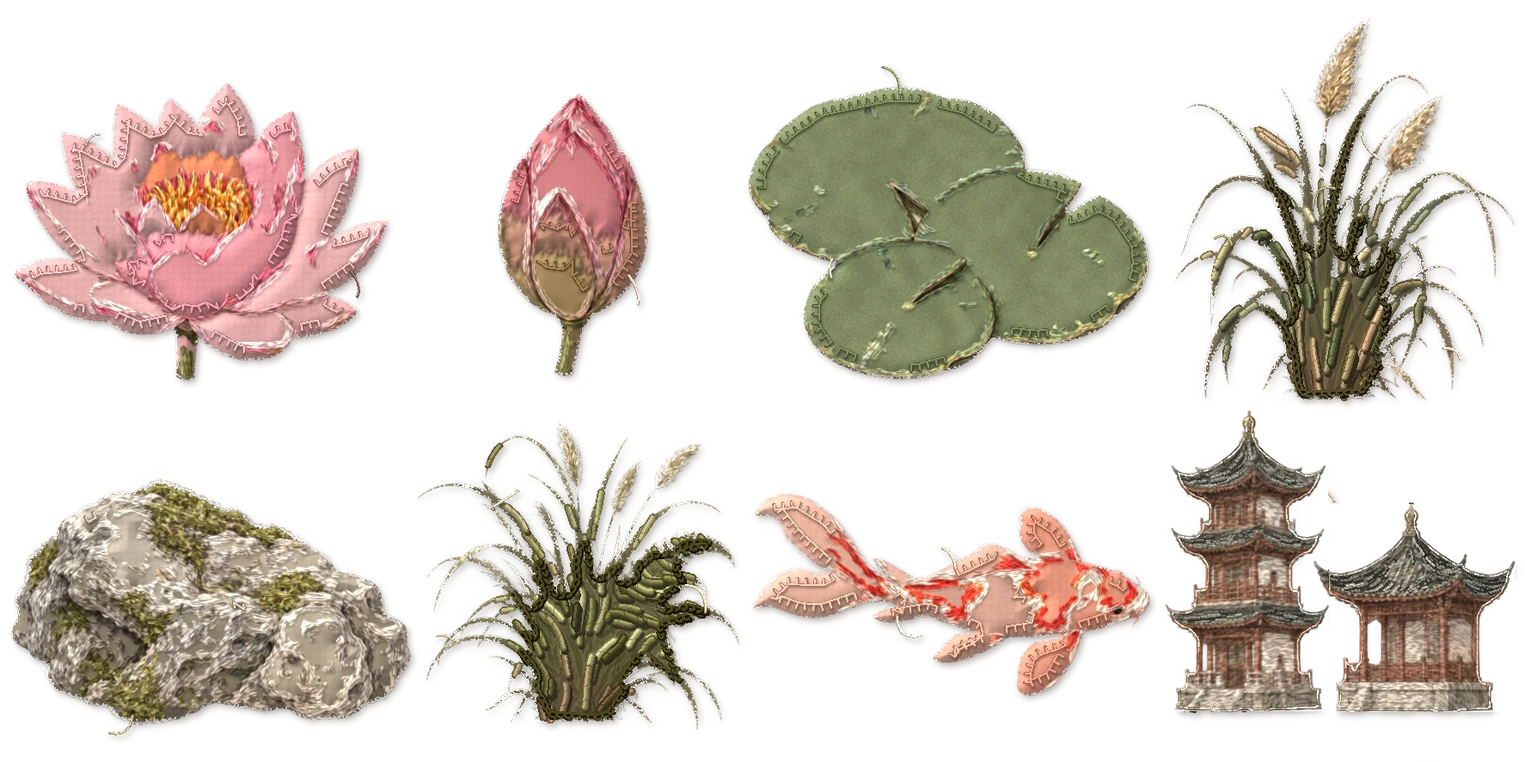
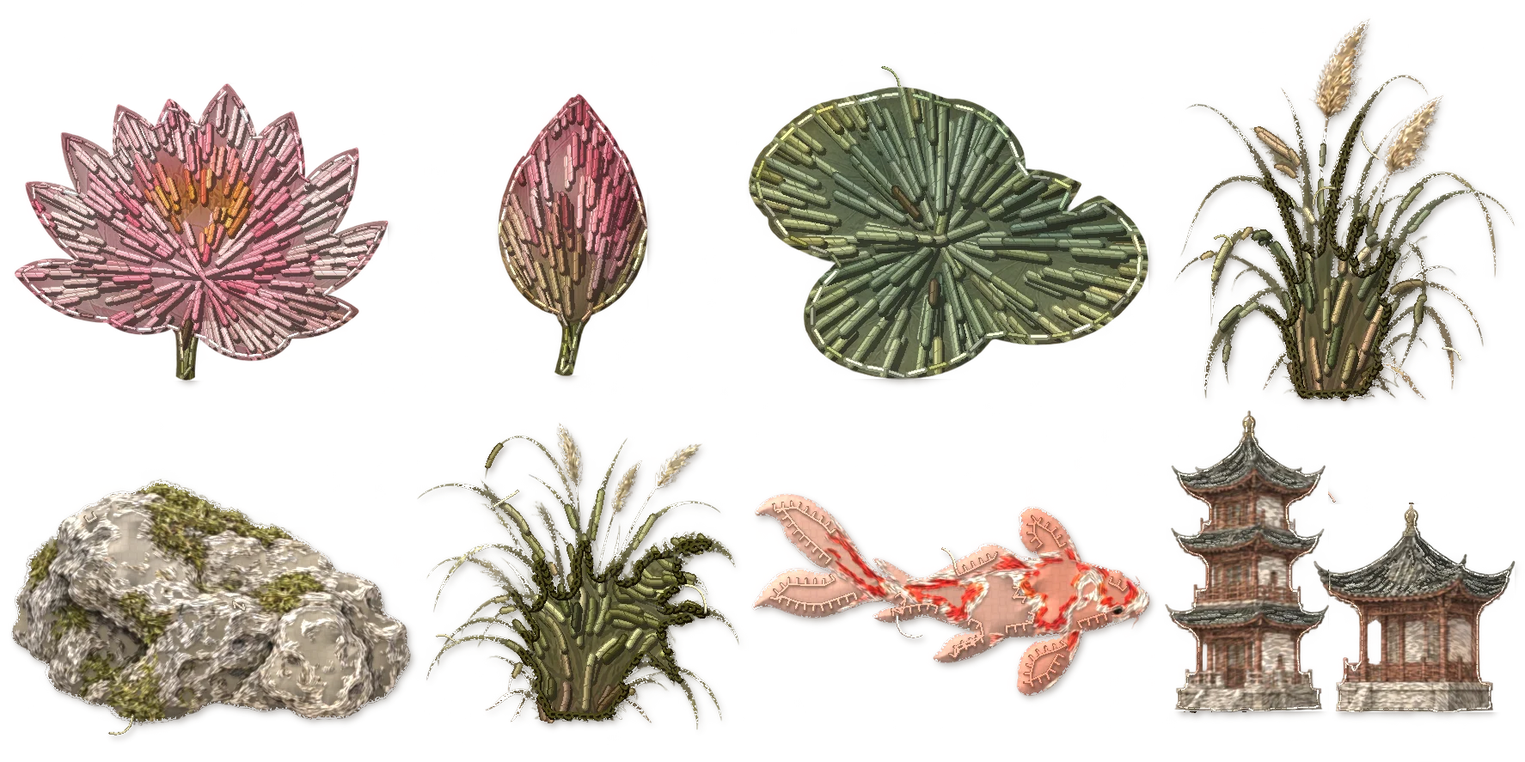
2D water: dark cloth swells with mother-of-pearl crests; embroidered lotus
- The water is dark cotton appliqué: rolling swells in muted slate, indigo
  and teal cloth, each over the one behind with its own shadow, a second
  cloth in its hollow and a running stitch along its top. Night colours come
  from CSS variables, so there is no dark veil over the shell.
- Mother-of-pearl is only the highlight: white shell strips along each crest
  and into its curl, set in a dark seat, with a slow pearly iridescence
  (pink, green, lavender) and a glint that comes and goes along the edge.
- The lotus flowers, buds and leaves are embroidered in satin stitch that
  spreads from the heart of each flower or leaf (fabricize EMB_REGIONS takes
  that point), and are shown a little larger in the cloth world.

Claude-Session: https://claude.ai/code/session_014GcVETBqDYWRJNBAnWSkWH

Changed region(s): [[0.4961, 0.1218, 0.7751, 0.5175], [0.0, 0.1218, 0.279, 0.487], [0.31, 0.1218, 0.434, 0.487]]

diff --git a/assets/js/art.js b/assets/js/art.js
@@ -981,7 +981,7 @@
   }
 
   // The cloth world's shared definitions: twisted thread for sewn lines, satin-stitched letters,
-  // and the mother-of-pearl waves inlaid in the water.
+  // and the cloth water with its mother-of-pearl crests.
   function clothDefs() {
     return '<pattern id="gTwist" width="2.4" height="2.4" patternUnits="userSpaceOnUse" patternTransform="rotate(42)"><rect width="2.4" height="2.4" style="fill:var(--thread)"/><rect width=".8" height="2.4" style="fill:var(--thread-shade)"/><rect x="1.4" width=".35" height="2.4" style="fill:var(--thread-light);opacity:.45"/></pattern>' +
       '<pattern id="gSatinLetters" width="1.5" height="1.5" patternUnits="userSpaceOnUse" patternTransform="rotate(-58)"><rect width="1.5" height="1.5" fill="#f2e3c1"/><rect width=".42" height="1.5" fill="#c4a46b"/><rect x=".9" width=".2" height="1.5" fill="#fff8e6" opacity=".7"/></pattern>' +
@@ -989,31 +989,35 @@
       seaDefs();
   }
 
-  // The water is one piece of mother-of-pearl inlay: rolling waves laid one over another across the
-  // whole pond, each wave built from long strips of shell (pearl white set against shell blues, the
-  // colours alone parting them) in lacquer, with a curling crest and a spray of pearls. A few wave
-  // shapes are made once here and placed many times at different sizes.
-  var SEA = {
-    pearl: [70, 28, ["#fdfbf6", "#e1ebf3", "#f5e8f0", "#d9ecee", "#fffaf1", "#e0e3f6"]],
-    mist: [90, -18, ["#d3e3ef", "#b1cbe2", "#e3e8f7", "#bfdce6", "#f0f5f7"]],
-    shell: [60, 52, ["#86afd3", "#5f8fc1", "#a0aade", "#6aa8c2", "#bcd5ea"]],
-    cobalt: [80, -38, ["#3f6fa2", "#2e5a8f", "#5876ba", "#2f7593", "#709fca"]],
-    deep: [100, 66, ["#1e3b63", "#285383", "#35488c", "#205c75", "#3f6d9f"]]
+  // The water is dark cloth, appliquéd: rolling swells cut from muted slate, indigo and teal cotton,
+  // each laid over the one behind with its own shadow and a running stitch along its top, a second
+  // cloth in its hollow. Mother-of-pearl is set only where the light catches, as the highlight: thin
+  // strips of white shell along each crest and into its curl, and a spray of pearls. The shell keeps
+  // its lustre: pearly white turning pink, green and blue along its length, a bright glint on its top
+  // edge, and a dark seat it is set into. A few wave shapes are made once and placed many times.
+  var NACRE = {
+    pearl: [64, 24, ["#fffefa", "#fbeef4", "#f4d7e6", "#fffaf2", "#ffffff", "#daf1ea", "#f6fbf9", "#dde3fb", "#fff6e6", "#ffffff"]],
+    silver: [76, -32, ["#f7f9fb", "#e3edf5", "#fbf1f6", "#ffffff", "#d6efe9", "#eef0fc", "#ffffff"]],
+    abalone: [48, 62, ["#d6f2ec", "#b4cbf3", "#efd8f3", "#c9f1df", "#f8e7cf", "#dcf5f2"]]
   };
+  var SEA_CLOTH = ["far", "mid", "near", "deep"];   // colours from the CSS (--sea-far ...), day and night
   function seaDefs() {
     var out = "";
-    Object.keys(SEA).forEach(function (k) {
-      var g = SEA[k], a = g[1] * Math.PI / 180;
+    Object.keys(NACRE).forEach(function (k) {
+      var g = NACRE[k], a = g[1] * Math.PI / 180;
       out += '<linearGradient id="gSea-' + k + '" gradientUnits="userSpaceOnUse" spreadMethod="reflect" x1="0" y1="0" x2="' + f1(Math.cos(a) * g[0]) + '" y2="' + f1(Math.sin(a) * g[0]) + '">' +
         g[2].map(function (c, i) { return '<stop offset="' + (i / (g[2].length - 1)).toFixed(2) + '" stop-color="' + c + '"/>'; }).join("") + '</linearGradient>';
     });
+    // the glint on the shell comes and goes along its length
+    out += '<linearGradient id="gSea-glint" gradientUnits="userSpaceOnUse" spreadMethod="reflect" x1="0" y1="0" x2="58" y2="9"><stop offset="0" stop-color="#fff" stop-opacity="0"/><stop offset=".35" stop-color="#fff" stop-opacity=".95"/><stop offset=".5" stop-color="#fff" stop-opacity="0"/><stop offset=".8" stop-color="#fff" stop-opacity=".6"/><stop offset="1" stop-color="#fff" stop-opacity="0"/></linearGradient>';
+    // plain-woven cotton in each cloth colour
+    SEA_CLOTH.forEach(function (k) {
+      out += '<pattern id="gSeaCloth-' + k + '" width="3" height="3" patternUnits="userSpaceOnUse"><rect width="3" height="3" style="fill:var(--sea-' + k + ')"/><path d="M0 .75h3" stroke="#fff" stroke-opacity=".08" stroke-width=".7"/><path d="M2.25 0v3" stroke="#000" stroke-opacity=".16" stroke-width=".7"/></pattern>';
+    });
     out += '<pattern id="gSeaThreads" width="16" height="3.4" patternUnits="userSpaceOnUse"><path class="sea-thread" d="M1 1.2h9M9 2.9h6"/></pattern>';
-    var r = rng(4417), front = ["pearl", "mist", "pearl", "shell", "mist", "cobalt", "pearl", "shell", "deep", "cobalt", "deep"];
-    out += seaWave("gSeaFront1", 250, 100, 3.4, front, "deep", r) + seaWave("gSeaFront2", 300, 92, 3.4, front, "cobalt", r) +
-      seaWave("gSeaFront3", 220, 108, 3.2, ["pearl", "shell", "pearl", "mist", "cobalt", "pearl", "deep", "shell", "cobalt", "deep", "deep"], "deep", r) +
-      seaWave("gSeaBack1", 200, 64, 2.5, ["pearl", "mist", "pearl", "shell", "mist", "shell", "cobalt"], "shell", r) +
-      seaWave("gSeaBack2", 240, 58, 2.5, ["mist", "pearl", "shell", "pearl", "shell", "mist", "cobalt"], "cobalt", r);
-    return out;
+    var r = rng(4417);
+    return out + seaWave("gSeaFront1", 250, 100, "near", "deep", r) + seaWave("gSeaFront2", 300, 92, "deep", "near", r) + seaWave("gSeaFront3", 220, 108, "near", "mid", r) +
+      seaWave("gSeaBack1", 200, 64, "mid", "far", r) + seaWave("gSeaBack2", 240, 58, "far", "mid", r);
   }
   // A dense line through control points (Catmull-Rom).
   function spline(pts, step) {
@@ -1046,37 +1050,37 @@
     for (var i = 1; i < pts.length - 1; i++) d += "Q" + f1(pts[i][0]) + " " + f1(pts[i][1]) + " " + f1((pts[i][0] + pts[i + 1][0]) / 2) + " " + f1((pts[i][1] + pts[i + 1][1]) / 2);
     return d + "L" + f1(pts[pts.length - 1][0]) + " " + f1(pts[pts.length - 1][1]);
   }
-  // One wave, standing on (0, 0) and rising to the right: the back of the wave is a fan of shell
-  // strips (the outer ones run on into the curl, the inner ones stop short), over a body of shell.
-  function seaWave(id, W, H, s, strips, body, r) {
+  function thin(pts, k) { return pts.filter(function (p, i) { return i % k === 0 || i === pts.length - 1; }); }
+  // One wave standing on (0, 0) and rising to the right: a swell of cloth with a second cloth in its
+  // hollow, and shell along its crest. The back of the wave runs along c; "inside" is to its right.
+  function seaWave(id, W, H, cloth, inner, r) {
     var c = spline([[-.3 * W, 8], [.12 * W, -.06 * H], [.44 * W, -.27 * H], [.72 * W, -.62 * H], [.89 * W, -.9 * H], [W, -H],
-      [1.1 * W, -.97 * H], [1.16 * W, -.85 * H], [1.14 * W, -.73 * H], [1.08 * W, -.71 * H], [1.06 * W, -.77 * H]], 3);
-    var gap = 1.2, pitch = s + gap, ends = [1, .96, .88, .79, .74, .69, .64, .6, .56, .52, .48], out = "";
-    var edge = offsetLine(c, -s / 2 - gap, 0, .8);
+      [1.1 * W, -.97 * H], [1.16 * W, -.85 * H], [1.14 * W, -.73 * H], [1.08 * W, -.71 * H], [1.06 * W, -.77 * H]], 3), out = "";
+    var edge = offsetLine(c, -1.6, 0, .8);
     var face = spline([edge[edge.length - 1], [1.03 * W, -.66 * H], [1.0 * W, -.42 * H], [1.05 * W, -.16 * H], [1.2 * W, 0], [1.3 * W, 12]], 4);
-    out += '<path class="sea-body" fill="url(#gSea-' + body + ')" d="' + smoothPath(edge.concat(face).filter(function (p, i) { return i % 2 === 0; })) + 'L' + f1(-.3 * W) + ' 12Z"/>';
-    // the falling face of the wave is inlaid too, in strips that run down from the crest; strips of
-    // one shell share a path, and the lacquer grooves under them share one, so a wave is a few shapes
-    function fan(line, list, offset, from, step, end) {
-      var groove = "", byShell = {};
-      list.forEach(function (pal, j) {
-        var d = smoothPath(offsetLine(line, offset(j), from(j), end(j)).filter(function (p, i) { return i % 3 === 0; }));
-        groove += d; byShell[pal] = (byShell[pal] || "") + d;
-      });
-      var w = s * step;
-      return '<path class="sea-groove" stroke-width="' + f1(w + gap * 1.1) + '" d="' + groove + '"/>' +
-        Object.keys(byShell).map(function (pal) { return '<path class="sea-strip" stroke="url(#gSea-' + pal + ')" stroke-width="' + f1(w) + '" d="' + byShell[pal] + '"/>'; }).join("");
-    }
-    out += fan(face, ["pearl", "shell", "cobalt", "mist", "deep", "cobalt"], function (j) { return gap + s / 2 + j * pitch; }, function (j) { return .08 + j * .07; }, 1, function () { return 1; });
-    out += fan(c, strips, function (j) { return j * pitch + j * j * s * .025; }, function (j) { return .015 + j * .028; }, 1.15, function (j) { return ends[j] || .5; });
+    var body = smoothPath(thin(edge.concat(face), 2)) + "L" + f1(-.3 * W) + " 12Z";
+    var hollowEdge = offsetLine(c, 15, .1, .6), he = hollowEdge[hollowEdge.length - 1];
+    var hollow = smoothPath(thin(hollowEdge.concat(spline([he, [he[0] + .06 * W, he[1] + .25 * H], [he[0] + .1 * W, -.05 * H], [he[0] + .22 * W, 12]], 4)), 2)) + "L" + f1(hollowEdge[0][0]) + " 12Z";
+    out += '<path class="sea-shadow" transform="translate(1.6 2.4)" d="' + body + '"/><path class="sea-cloth" fill="url(#gSeaCloth-' + cloth + ')" d="' + body + '"/>' +
+      '<path class="sea-shadow" transform="translate(1.1 1.7)" d="' + hollow + '"/><path class="sea-cloth" fill="url(#gSeaCloth-' + inner + ')" d="' + hollow + '"/>' +
+      '<path class="sea-stitch" d="' + smoothPath(thin(offsetLine(c, 3.4, .03, .4), 3)) + smoothPath(thin(offsetLine(c, 18.4, .14, .56), 3)) + '"/>';
+    // the shell: [nacre, offset inside the crest, from, to, width]
+    var glint = "";
+    [["pearl", 0, .4, 1, 3], ["silver", 4.3, .5, .94, 2.3], ["abalone", 7.9, .58, .86, 1.7], ["pearl", 11, .65, .8, 1.3]].forEach(function (n) {
+      var d = smoothPath(thin(offsetLine(c, n[1], n[2], n[3]), 3));
+      out += '<path class="sea-groove" stroke-width="' + f1(n[4] + 1.1) + '" transform="translate(.3 .6)" d="' + d + '"/><path class="sea-strip" stroke="url(#gSea-' + n[0] + ')" stroke-width="' + n[4] + '" d="' + d + '"/>';
+      glint += smoothPath(thin(offsetLine(c, n[1] - n[4] * .22, n[2] + .03, n[3] - .02), 3));
+    });
+    var fd = smoothPath(thin(offsetLine(face, 2.6, .04, .34), 3));
+    out += '<path class="sea-groove" stroke-width="2.6" transform="translate(.3 .6)" d="' + fd + '"/><path class="sea-strip" stroke="url(#gSea-silver)" stroke-width="1.5" d="' + fd + '"/>' +
+      '<path class="sea-glint" d="' + glint + '"/>';
     // spray: pearls thrown off the crest
     var spray = "";
     for (var p = 0; p < 7; p++) {
       var a = -.5 + r() * 2.1, rad = .1 * W + r() * .14 * W, pr = .9 + r() * 1.7, px = 1.05 * W + Math.cos(a) * rad * .8, py = -.88 * H - Math.sin(a) * rad * .45;
       spray += "M" + f1(px - pr) + " " + f1(py) + "a" + f1(pr) + " " + f1(pr) + " 0 1 0 " + f1(2 * pr) + " 0a" + f1(pr) + " " + f1(pr) + " 0 1 0 " + f1(-2 * pr) + " 0";
     }
-    out += '<path class="sea-spray" fill="url(#gSea-pearl)" d="' + spray + '"/>';
-    return '<g id="' + id + '">' + out + '</g>';
+    return '<g id="' + id + '">' + out + '<path class="sea-spray" fill="url(#gSea-pearl)" d="' + spray + '"/></g>';
   }
   function luodian(width, waterShape) {
     var r = rng(5150), back = "", mid = "", front = "";
@@ -1085,8 +1089,7 @@
     for (x = -100; x < width + 200; x += 330 + r() * 260) mid += place("gSeaFront" + (1 + Math.floor(r() * 3)), x, 786 + r() * 8, .62 + r() * .14, .6 + r() * .14);
     for (x = -60; x < width + 200; x += 210 + r() * 120) front += place("gSeaFront" + (1 + Math.floor(r() * 3)), x, 808 + r() * 6, .88 + r() * .26, .86 + r() * .2);
     return '<defs><clipPath id="gPondClip"><path d="' + waterShape + '"/></clipPath></defs><g class="luodian" aria-hidden="true" clip-path="url(#gPondClip)">' +
-      '<rect class="sea-threads" x="0" y="660" width="' + width + '" height="150" fill="url(#gSeaThreads)"/>' + back + mid + front +
-      '<rect class="sea-night" x="0" y="660" width="' + width + '" height="150"/></g>';
+      '<rect class="sea-threads" x="0" y="660" width="' + width + '" height="150" fill="url(#gSeaThreads)"/>' + back + mid + front + '</g>';
   }
 
   function mist(width, y, h) {

diff --git a/assets/css/fabric.css b/assets/css/fabric.css
@@ -2,9 +2,11 @@
    cloth versions in assets/art/fabric/ (tools/fabricize.py), and assets/js/quilt.js sews the sky. */
 .fabric .world, .fabric .defs {
   --thread: #6e5539; --thread-shade: #46331f; --thread-light: #efe2c6; --quilt-shadow: rgba(46, 32, 18, .28);
+  --sea-far: #57707a; --sea-mid: #475f6b; --sea-near: #394f5c; --sea-deep: #2d424f;
 }
 [data-theme="dark"].fabric .world, .fabric[data-theme="dark"] .world, .fabric[data-theme="dark"] .defs {
   --thread: #cbb894; --thread-shade: #8a7858; --thread-light: #f6ecd4; --quilt-shadow: rgba(0, 0, 0, .5);
+  --sea-far: #253441; --sea-mid: #1e2b37; --sea-near: #18232e; --sea-deep: #121b24;
 }
 
 /* the backing: washed burlap by day, dark felt at night; the sky quilt lies on it */
@@ -35,20 +37,23 @@
   fill: url(#gSatinLetters); stroke: #3a2616; stroke-width: .32; paint-order: stroke; filter: url(#gRaisedThread);
 }
 
-/* the water is mother-of-pearl inlaid in lacquer: rolling waves of shell strips over a backing of
-   finely stitched sea; pearl and shell blues part the strips, no gold */
+/* the water is dark cotton appliqué, each swell shading the one behind and sewn along its top; the
+   mother-of-pearl along the crests is the highlight, set in a dark seat with a glint on its edge */
 .luodian { pointer-events: none; }
-.fabric .pond-lacquer { fill: #b7cbd9; }
-.sea-thread { fill: none; stroke: #8fa9c0; stroke-width: .7; stroke-linecap: round; opacity: .55; }
-.sea-body { stroke: #22395a; stroke-width: .6; }
-.sea-groove { fill: none; stroke: #2b4769; stroke-linecap: round; }
+.fabric .pond-lacquer { fill: #5f777f; }
+.sea-thread { fill: none; stroke: #7f969d; stroke-width: .7; stroke-linecap: round; opacity: .6; }
+.sea-shadow { fill: #0d171e; opacity: .42; }
+.sea-cloth { stroke: #1f2e37; stroke-width: .4; }
+.sea-stitch { fill: none; stroke: #8ea6ad; stroke-width: .7; stroke-dasharray: 3.2 2.4; stroke-linecap: round; opacity: .8; }
+.sea-groove { fill: none; stroke: #121c23; stroke-linecap: round; opacity: .85; }
 .sea-strip { fill: none; stroke-linecap: round; }
-.sea-spray { stroke: #6f8fb0; stroke-width: .35; }
-[data-theme="dark"] .fabric .pond-lacquer, .fabric[data-theme="dark"] .pond-lacquer { fill: #18263a; }
-[data-theme="dark"] .sea-thread { stroke: #3c5674; }
-.sea-night { display: none; }
-[data-theme="dark"] .sea-night { display: inline; fill: #0a1424; opacity: .42; }
-[data-theme="dark"] .sea-groove, [data-theme="dark"] .sea-body { stroke: #0b1524; }
+.sea-glint { fill: none; stroke: url(#gSea-glint); stroke-width: .7; stroke-linecap: round; }
+.sea-spray { stroke: #4d6570; stroke-width: .35; }
+.fabric[data-theme="dark"] .pond-lacquer { fill: #22303c; }
+[data-theme="dark"] .sea-thread { stroke: #3b4f5e; }
+[data-theme="dark"] .sea-shadow { fill: #000; opacity: .55; }
+[data-theme="dark"] .sea-stitch { stroke: #536b78; }
+[data-theme="dark"] .sea-strip, [data-theme="dark"] .sea-spray { opacity: .82; }
 .fabric .water-line, .fabric .water-light, .fabric .submerged-stems, .fabric .flower-reflection { display: none; }
 
 

diff --git a/assets/js/paint.js b/assets/js/paint.js
@@ -816,13 +816,15 @@
     water.insertAdjacentHTML('afterend','<path class="painted-water" d="'+water.getAttribute('d')+'" fill="url(#paintWater)"/>');
     root.querySelector('.pond-bank').setAttribute('fill','url(#paintBank)');
     root.querySelector('.pond-bank').insertAdjacentHTML('beforebegin','<path class="painted-bank" d="M0 627H'+width+'V800H0Z'+water.getAttribute('d')+'" fill-rule="evenodd" fill="url(#paintBank)"/>');
+    // in the cloth world the lotus is embroidered, shown a little larger so its stitches read
+    var lk=window.HJArtDir?1.3:1,pk=window.HJArtDir?1.15:1;
     all(root,'.lotus-leaf').forEach(function(n) {
       var pad=n.querySelector('.leaf-shadow');
-      var x=+pad.getAttribute('cx')-2,y=+pad.getAttribute('cy')-3, r=+pad.getAttribute('rx');
+      var x=+pad.getAttribute('cx')-2,y=+pad.getAttribute('cy')-3, r=+pad.getAttribute('rx')*pk;
       n.innerHTML=sprite('pads',x-r,y-r*.48,r*2,r*.96);
     });
     all(root,'.lotus-flower').forEach(function(n) {
-      n.innerHTML='<g class="o-day">'+sprite('flower',-26,-35,52,39)+'</g><g class="o-night">'+sprite('bud',-11,-32,22,37)+'</g>';
+      n.innerHTML='<g class="o-day">'+sprite('flower',-26*lk,4-39*lk,52*lk,39*lk)+'</g><g class="o-night">'+sprite('bud',-11*lk,5-37*lk,22*lk,37*lk)+'</g>';
     });
     var k=root.querySelector('.koi-facing');
     if(k) {

diff --git a/index.html b/index.html
@@ -71,7 +71,7 @@
     <link rel="stylesheet" href="assets/css/bow-depth-v10.css?v=motion-world-v12">
     <link rel="stylesheet" href="assets/css/interaction-hints-v11.css?v=motion-world-v12">
     <link rel="stylesheet" href="assets/css/scroll-story.css?v=signs-v1">
-    <link rel="stylesheet" href="assets/css/fabric.css?v=cloth-v6">
+    <link rel="stylesheet" href="assets/css/fabric.css?v=cloth-v7">
 </head>
 
 <body>
@@ -243,8 +243,8 @@
     <script src="assets/js/data.js?v=family-stories-v6"></script>
     <script src="assets/js/rituals.js?v=material-v3"></script>
     <script src="assets/js/guide.js?v=cloth-v1"></script>
-    <script src="assets/js/art.js?v=cloth-v6"></script>
-    <script src="assets/js/paint.js?v=cloth-v4"></script>
+    <script src="assets/js/art.js?v=cloth-v7"></script>
+    <script src="assets/js/paint.js?v=cloth-v5"></script>
     <script src="assets/js/campus-portrait-v9.js?v=motion-world-v12"></script>
     <script src="assets/js/water-life.js?v=cloth-v1"></script>
     <script src="assets/js/landscape-scene-v9.js?v=motion-world-v12"></script>

diff --git a/3d.html b/3d.html
@@ -138,7 +138,7 @@
     <script src="assets/js/data.js?v=family-stories-v6"></script>
     <script src="assets/js/rituals.js?v=material-v3"></script>
     <script src="assets/js/guide.js?v=cloth-v1"></script>
-    <script src="assets/js/art.js?v=cloth-v6"></script>
+    <script src="assets/js/art.js?v=cloth-v7"></script>
     <script type="module" src="assets/three/dist/faithful-world.js?v=room-walk-v1"></script>
 </body>
 </html>

diff --git a/tools/fabricize.py b/tools/fabricize.py
@@ -92,7 +92,9 @@ FACE_SILK = {'hanjing-day', 'hanjing-night', 'hanjing-day-expression', 'hanjing-
 FUR_RIG = ('jinbingbing-',)
 FULL_EMB = {'belongings-painted': [(442, 94, 700, 389)]}   # the cooking pot is embroidered all over
 # small buildings in the distance, embroidered all over at the size they are shown: (rect, screen scale)
-EMB_REGIONS = {'garden-painted': [((1356, 478, 1545, 828), .4), ((1546, 587, 1762, 829), .45)]}
+EMB_REGIONS = {'garden-painted': [((1356, 478, 1545, 828), .4, 'building'), ((1546, 587, 1762, 829), .45, 'building'),
+                                   ((17, 98, 451, 443), .15, (.5, .64)), ((580, 110, 753, 437), .15, (.5, 1.0)), ((871, 101, 1336, 441), .1, (.47, .52))]}
+# (a lotus is given as the point its petals or leaf veins spread from, as fractions of the crop)
 
 
 def kind_of(name):
@@ -671,12 +673,12 @@ def chain_stitch(col, pts, color, w, step):
 
 
 
-def embroider(col, region, src_bgr, L, u, rng, key, width=None, length=None, cover=None, soft=False, strict=True, fine=False):
+def embroider(col, region, src_bgr, L, u, rng, key, width=None, length=None, cover=None, soft=False, strict=True, fine=False, field=None):
     """Fill a region with thick, visibly spaced stitches that follow its structure, over a darker
     underlay of the same cloth that shows through the gaps."""
     if not region.any(): return col, np.zeros(region.shape, np.float32)
     width = width or EMB_W; length = length or EMB_L; cover = cover or EMB_COVER
-    fdx, fdy = stitch_field(L, u)
+    fdx, fdy = field if field is not None else stitch_field(L, u)
     src_lab = cv2.cvtColor(np.clip(src_bgr, 0, 255).astype(np.float32) / 255, cv2.COLOR_BGR2Lab)
     if fine:   # thread painting: dense slim stitches over the painting itself, no gaps showing
         under = src_bgr
@@ -1006,16 +1008,17 @@ def fabricize(name, img, over=1):
     if kind == 'figure':
         return figure(name, bgr_f, alpha, solid, lab_o, src, u, rng)
     res = appliqué(name, bgr_f, alpha, solid, lab_o, src, u, rng, over)
-    for rect, sc in EMB_REGIONS.get(name, ()):
+    for rect, sc, motif in EMB_REGIONS.get(name, ()):
         x0, y0, x1, y1 = [int(round(v * over)) for v in rect]
-        res[y0:y1, x0:x1] = distant_embroidery(img[y0:y1, x0:x1], over / sc, rng, x0 + y0)
+        res[y0:y1, x0:x1] = distant_embroidery(img[y0:y1, x0:x1], over / sc, rng, x0 + y0, motif)
     return res
 
 
-def distant_embroidery(img, u, rng, key):
-    """A small building far off, worked all over in embroidery so it still reads as stitched when
-    small: satin floss on the tiled roofs, fine silk on walls, columns and railings in the painting's
-    own colours, and a back stitch round the whole building."""
+def distant_embroidery(img, u, rng, key, motif='building'):
+    """A small motif worked all over in embroidery so it still reads as stitched when small. A
+    building far off: satin floss on the tiled roofs, fine silk on walls, columns and railings in the
+    painting's own colours. A lotus (flower, bud, leaves): satin floss over every petal and leaf,
+    following its veins. Either way a back stitch runs round the whole motif."""
     bgr_f, alpha, solid = prepare(img)
     H, W = solid.shape
     lab_o = cv2.cvtColor(np.clip(bgr_f, 0, 255) / 255, cv2.COLOR_BGR2Lab); L_o = lab_o[..., 0]
@@ -1024,10 +1027,17 @@ def distant_embroidery(img, u, rng, key):
     Lb = cv2.GaussianBlur(lab_o, (0, 0), max(.8, .6 * u))
     C = np.hypot(Lb[..., 1], Lb[..., 2]); hh = np.degrees(np.arctan2(Lb[..., 2], Lb[..., 1])) % 360
     roof = solid & (((hh > 95) & (hh < 230) & (C > 3)) | ((C < 6) & (Lb[..., 0] < 50)))
+    field = None
+    if motif != 'building':   # a lotus: petals and leaf veins spread from one point, and so do the stitches
+        roof = solid.copy()
+        yy, xx = np.mgrid[0:H, 0:W].astype(np.float32)
+        dx, dy = xx - motif[0] * W, yy - motif[1] * H
+        n = np.sqrt(dx * dx + dy * dy) + 1e-3
+        field = (dx / n, dy / n)
     k = max(3, int(round(1.2 * u)) | 1)
     roof = cv2.morphologyEx(roof.astype(np.uint8), cv2.MORPH_OPEN, cv2.getStructuringElement(cv2.MORPH_ELLIPSE, (k, k))) > 0
-    col, _ = embroider(col, roof, src, L_o, u, rng, key, width=1.1, length=5.0, cover=.85)
-    col = silk(col, solid & ~roof, src, L_o, u, rng, .65, 3.0, .2, .07, .35, 3.0)
+    col, _ = embroider(col, roof, src, L_o, u, rng, key, width=1.1 if field is None else .9, length=5.0 if field is None else 5.5, cover=.85 if field is None else .95, field=field)
+    if motif == 'building': col = silk(col, solid & ~roof, src, L_o, u, rng, .65, 3.0, .2, .07, .35, 3.0)
     needle = Needle(H, W, u, fine=True)
     r = max(1, int(round(.8 * u)))
     m_in = cv2.erode(solid.astype(np.uint8), cv2.getStructuringElement(cv2.MORPH_ELLIPSE, (2 * r + 1, 2 * r + 1)))

diff --git a/README.md b/README.md
@@ -151,7 +151,7 @@ The 2D world is appliqué and embroidery together: large areas of colour are cut
 - **Background.** The far mountains and trees are a few large pieces of plain cloth cut by tone (pale far peaks, rocky ridges, green slopes, dark forest), edged with a quiet darker thread. The small towers and pavilions in the distance are embroidered all over at the size they are shown: satin floss on the roofs, fine silk on walls and columns, a back stitch round each. The sky is one piece of plain silk with a torn edge, bound with a running stitch, on a burlap backing (felt at night).
 - **Hanjing.** Her shape stays exact, so the animation still fits. Each garment is in its own cloth: gabardine coat, silk shirt, herringbone trousers, leather shoes, and at night a black silk qipao with leaves in gold thread. Her hair is fine silk thread along its flow. A back stitch runs round her outline, hair and shirt included, so she reads as one piece sewn onto the scene. Her face is the painting itself while she moves; when she stands still facing us it is embroidered in very fine silk, with the eyes, brows, nose and lips in finer, slightly raised stitches.
 - **Cats.** Short fine stitches that follow the fur, with the eyes and nose left clear.
-- **Page.** The station names are satin-stitched letters. Sewn lines on the page are twisted thread, and the whole water is one piece of mother-of-pearl inlay: rolling waves laid one over another along the pond, each built from long strips of shell set in lacquer, pearl white against shell blues (the colours alone part them, no gold), with curling crests and a spray of pearls, over finely stitched far water. At night a dark veil lies over the shell.
+- **Page.** The station names are satin-stitched letters. Sewn lines on the page are twisted thread, and the water is dark cotton appliqué: rolling swells cut from muted slate, indigo and teal cloth, each laid over the one behind with its own shadow, a second cloth in its hollow and a running stitch along its top. Mother-of-pearl is only the highlight: thin strips of white shell along each crest and into its curl, set in a dark seat, pearly white turning pink, green and blue with a glint along its edge, and a spray of pearls. The lotus flowers, buds and leaves on the water are embroidered in satin stitch that spreads from the heart of each flower and leaf.
 
 The fine silk is drawn by line integral convolution: thread-sized noise smeared along the direction of the painting's own structure, so the threads bend with hair, fur and carving. The sheen changes with the thread direction, as it does on real silk. Stitches are seeded by position, so the walking frames get matching stitches.
 
@@ -164,7 +164,7 @@ python3 tools/fabricize.py buildings-painted pine   # or just some
 python3 tools/fabricize.py --tiles         # the silk, weave, burlap and felt swatches
 ```
 
-`SCALE` at the top of the script records how large each sheet appears on screen, so stitches and weave come out the same size everywhere; sheets shown enlarged are sewn at 1.5x their size. The look is tuned with the constants below it: piece size, blanket and chain stitch, satin floss (`EMB_*`), the silk thread painting for each use (`SILK_*`: thread width, stitch length, contrast, sheen, relief), Hanjing's outline, and which sheets are far landscape cloth (`LANDSCAPE`), figures or cats, plus the small distant buildings embroidered all over (`EMB_REGIONS`).
+`SCALE` at the top of the script records how large each sheet appears on screen, so stitches and weave come out the same size everywhere; sheets shown enlarged are sewn at 1.5x their size. The look is tuned with the constants below it: piece size, blanket and chain stitch, satin floss (`EMB_*`), the silk thread painting for each use (`SILK_*`: thread width, stitch length, contrast, sheen, relief), Hanjing's outline, and which sheets are far landscape cloth (`LANDSCAPE`), figures or cats, plus the small motifs embroidered all over (`EMB_REGIONS`: the distant buildings and the lotus).
 
 Mini-Hanjing answers like a conversation: a few sentences and a follow-up question, with any long list folded under a "Show me" button (`fold()` in `assets/js/guide.js`).
 
